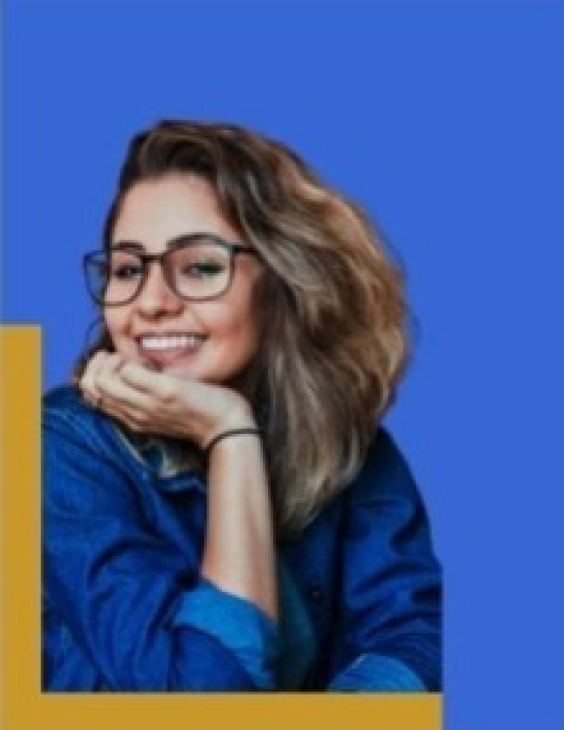
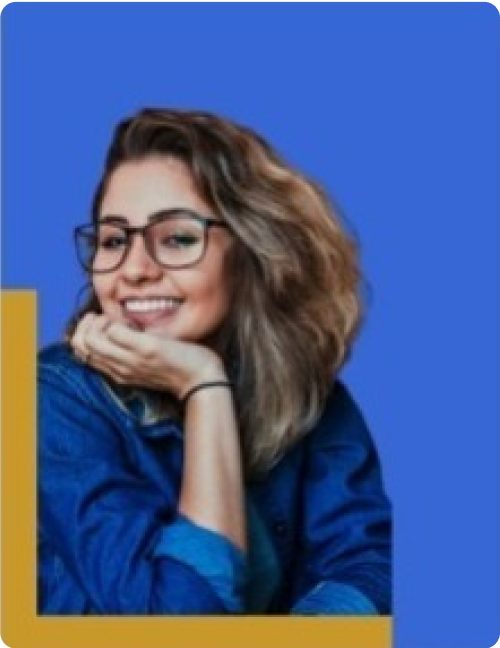
newnewewe

diff --git a/src/screens/Desktop/style.css b/src/screens/Desktop/style.css
@@ -14,73 +14,76 @@
   width: 1201px;
 }
 
+.desktop .group-2 {
+  height: 358px;
+  left: 62px;
+  position: absolute;
+  top: 161px;
+  width: 616px;
+}
+
 .desktop .text-wrapper {
   color: #000000;
   font-family: "Lato", Helvetica;
-  font-size: 54.5px;
+  font-size: 53.1px;
   font-weight: 700;
-  left: 131px;
-  letter-spacing: 2.18px;
+  left: 0;
+  letter-spacing: 2.12px;
   line-height: normal;
   position: absolute;
-  top: 213px;
+  top: 0;
   width: 532px;
 }
 
 .desktop .element-languages-that {
   color: #383836;
   font-family: "Lato", Helvetica;
-  font-size: 20.8px;
+  font-size: 19.1px;
   font-weight: 700;
-  height: 125px;
-  left: 131px;
-  letter-spacing: 0;
-  line-height: 41.6px;
+  height: 115px;
+  left: 8px;
+  letter-spacing: 0.57px;
+  line-height: 38.2px;
   position: absolute;
-  top: 370px;
-  width: 573px;
-}
-
-.desktop .group-2 {
-  height: 54px !important;
-  left: 131px !important;
-  position: absolute !important;
-  top: 523px !important;
-  width: 355px !important;
+  top: 161px;
+  width: 604px;
 }
 
 .desktop .group-instance {
-  font-size: 19.8px !important;
-  left: 67px !important;
-  letter-spacing: 0.99px !important;
-  line-height: 12.9px !important;
-  width: 221px !important;
+  border-radius: 25px !important;
+  height: 50px !important;
+  left: 6px !important;
+  position: absolute !important;
+  top: 309px !important;
+  width: 326px !important;
+}
+
+.desktop .group-2-instance {
+  font-size: 18.2px !important;
+  height: 8px !important;
+  left: 61px !important;
+  letter-spacing: 0.91px !important;
+  line-height: 11.8px !important;
+  top: 20px !important;
+  width: 203px !important;
 }
 
 .desktop .lady-instance {
   background-image: url(../../../static/img/whatsapp-image-2023-07-12-at-12-41-1.png) !important;
-  height: 365px !important;
-  left: 790px !important;
+  height: 323px !important;
+  left: 796px !important;
   position: absolute !important;
-  top: 213px !important;
-  width: 282px !important;
+  top: 196px !important;
+  width: 250px !important;
 }
 
 .desktop .magma-translation-png {
   background-image: url(../../../static/img/magma-translation-png.png) !important;
   height: 61px !important;
-  left: 131px !important;
+  left: 62px !important;
   position: absolute !important;
-  top: 50px !important;
+  top: 61px !important;
   width: 219px !important;
-}
-
-.desktop .img {
-  height: 171px;
-  left: 157px;
-  position: absolute;
-  top: 791px;
-  width: 889px;
 }
 
 .desktop .p {
@@ -94,4 +97,12 @@
   position: absolute;
   top: 674px;
   white-space: nowrap;
+}
+
+.desktop .img {
+  height: 159px;
+  left: 106px;
+  position: absolute;
+  top: 810px;
+  width: 989px;
 }

diff --git a/src/screens/Desktop/Desktop.jsx b/src/screens/Desktop/Desktop.jsx
@@ -8,19 +8,20 @@ export const Desktop = () => {
   return (
     <div className="desktop">
       <div className="div">
-        <h1 className="text-wrapper">Professional Translation Services</h1>
-        <p className="element-languages-that">
-          120 languages that fits in your budget
-          <br />
-          11,000+ translators
-          <br />
-          Easy, Technological, Professional
-        </p>
-        <Group className="group-2" talkToAnExpertClassName="group-instance" />
+        <div className="group-2">
+          <h1 className="text-wrapper">Professional Translation Services</h1>
+          <p className="element-languages-that">
+            120 languages that fits in your budget
+            <br />
+            Human Translation done with the highest quality in the market
+            <br /> Linguists with Master&#39;s Degrees
+          </p>
+          <Group className="group-instance" talkToAnExpertClassName="group-2-instance" />
+        </div>
         <Lady className="lady-instance" />
         <MagmaTranslation className="magma-translation-png" />
-        <img className="img" alt="Group" src="/img/group-4.png" />
         <p className="p">Trusted by Elite Businesses Worldwide</p>
+        <img className="img" alt="Group" src="/img/group-6.png" />
       </div>
     </div>
   );
